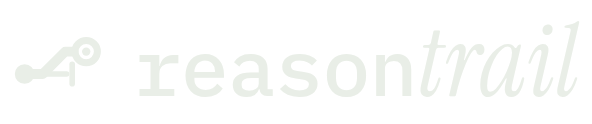
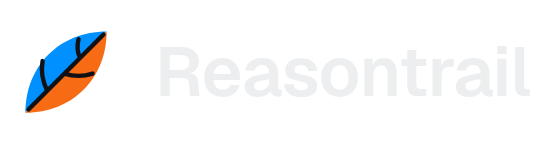
Regenerate the README wordmarks with the veined leaf; no middle dots in the README
A wordmark brand flow draws the header Wordmark at 2.5x on a transparent
background in light and dark; the hero flow keeps only hero.webp. The
README's link rows are apart by spacing.

Changed region(s): [[0.0308, 0.2177, 0.2156, 0.7742]]

diff --git a/README.md b/README.md
@@ -8,9 +8,9 @@
 <p align="center"><strong>See how your coding agent got there: one command turns a Claude Code, Codex or Grok Build session into a map you can read at a glance. Local, no API key, nothing uploaded.</strong></p>
 
 <p align="center">
-  <a href="https://reasontrail.geekplux.com">Live demo</a> ·
-  <a href="#quick-start">Quick start</a> ·
-  <a href="#how-it-works">How it works</a> ·
+  <a href="https://reasontrail.geekplux.com">Live demo</a>&emsp;
+  <a href="#quick-start">Quick start</a>&emsp;
+  <a href="#how-it-works">How it works</a>&emsp;
   <a href="docs/EXTENDING.md">Extend it</a>
 </p>
 
@@ -19,7 +19,7 @@
     <source media="(prefers-reduced-motion: reduce)" srcset="docs/brand/hero.webp">
     <img src="docs/brand/hero.gif" width="800" alt="A Reasontrail map of a real session: the task card with three At a glance rows, a route of twelve named episodes from the request to the answer with a numbered trouble marker where check runs failed, and the destination card. The pointer clicks the marker, the detail panel opens on the first failed run and steps to the second, and Esc returns to the map.">
   </picture>
-  <br><sub><a href="docs/brand/hero.webp">Still image</a> · <a href="examples/README.md">Three example maps</a></sub>
+  <br><sub><a href="docs/brand/hero.webp">Still image</a>&emsp;<a href="examples/README.md">Three example maps</a></sub>
 </p>
 
 ## Quick start

diff --git a/CONTRIBUTING.md b/CONTRIBUTING.md
@@ -35,7 +35,7 @@ Run these before you open a pull request. CI runs the same ones (its definition 
 
 `pnpm check:browser` uses the system Chrome (`/usr/bin/google-chrome`, or set `CHROME_PATH`) and port 4317 (or set `TG_PORT`). `--flows a,b` runs only some flows. It always closes the browser and stops the server.
 
-The README's images come from the app: `pnpm check:browser --flows hero` rewrites `docs/brand/hero.webp` and the wordmarks, and `node scripts/browser/readme-shot.mjs` renders the README with GitHub's Markdown API (needs `gh`) and checks that the first screen shows the pitch, the hero and the quick start.
+The README's images come from the app: `pnpm check:browser --flows hero` rewrites `docs/brand/hero.webp`, `--flows wordmark` the two wordmark images, and `node scripts/browser/readme-shot.mjs` renders the README with GitHub's Markdown API (needs `gh`) and checks that the first screen shows the pitch, the hero and the quick start.
 
 ## Where things live
 
